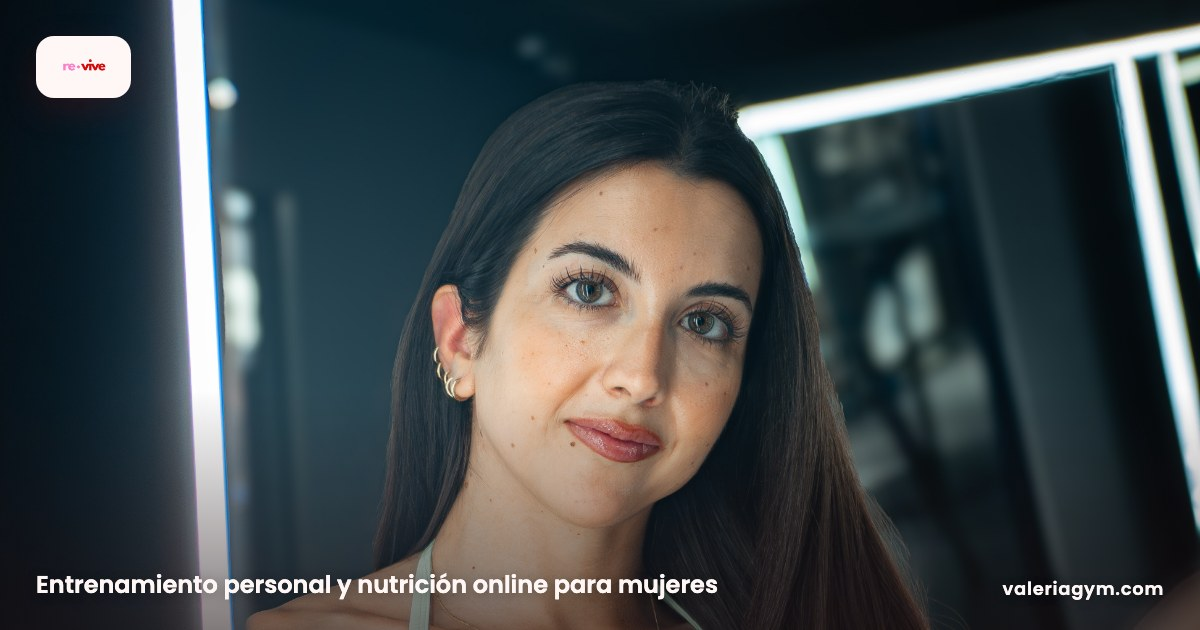
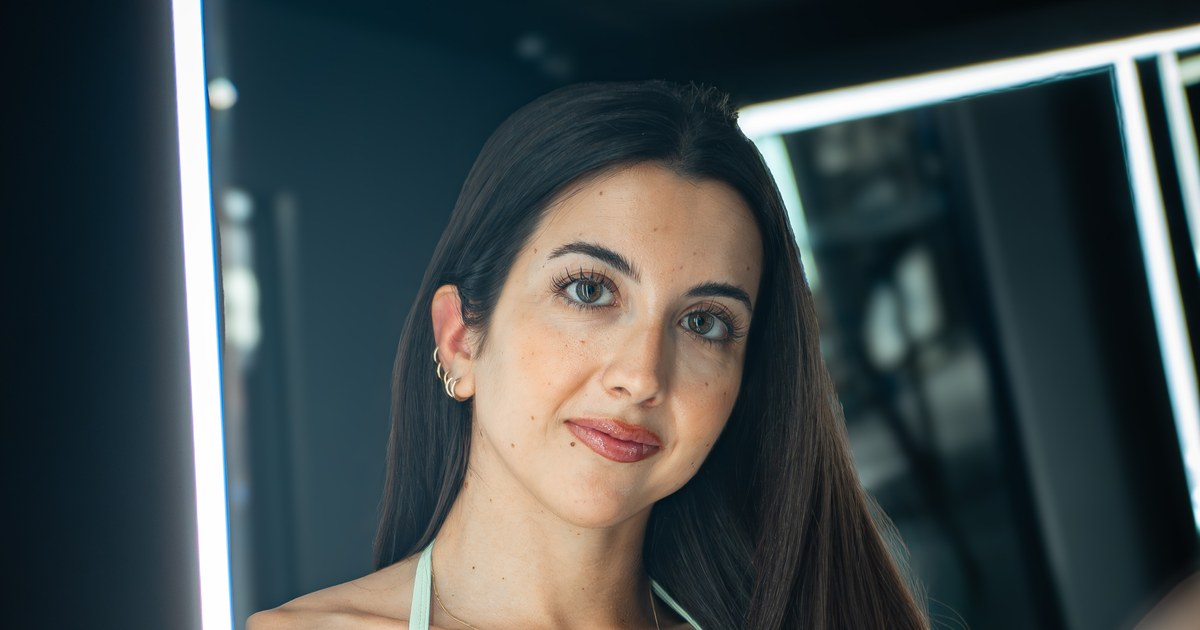
Og-image: usar foto sin overlays como miniatura para compartir

diff --git a/index.html b/index.html
@@ -17,7 +17,7 @@
 <meta property="og:url" content="https://www.valeriagym.com/" />
 <meta property="og:title" content="Entrenador personal y nutrición online para mujeres · Re·vive" />
 <meta property="og:description" content="Entrenador personal online y nutrición 1:1 para mujeres. Re·vive es el método de Valeria Cardellini para una recomposición corporal real y sostenible." />
-<meta property="og:image" content="https://www.valeriagym.com/assets/og-image.jpg?v=2" />
+<meta property="og:image" content="https://www.valeriagym.com/assets/og-image.jpg?v=3" />
 <meta property="og:image:width" content="1200" />
 <meta property="og:image:height" content="630" />
 <meta property="og:locale" content="es_ES" />
@@ -25,7 +25,7 @@
 <meta name="twitter:card" content="summary_large_image" />
 <meta name="twitter:title" content="Entrenador personal y nutrición online para mujeres · Re·vive" />
 <meta name="twitter:description" content="Entrenador personal online y nutrición 1:1 para mujeres. Re·vive es el método de Valeria Cardellini para una recomposición corporal real y sostenible." />
-<meta name="twitter:image" content="https://www.valeriagym.com/assets/og-image.jpg?v=2" />
+<meta name="twitter:image" content="https://www.valeriagym.com/assets/og-image.jpg?v=3" />
 
 <!-- Adobe Fonts (Larken Black para títulos)
      Ve a https://fonts.adobe.com/fonts/larken → "Add to Web Project"